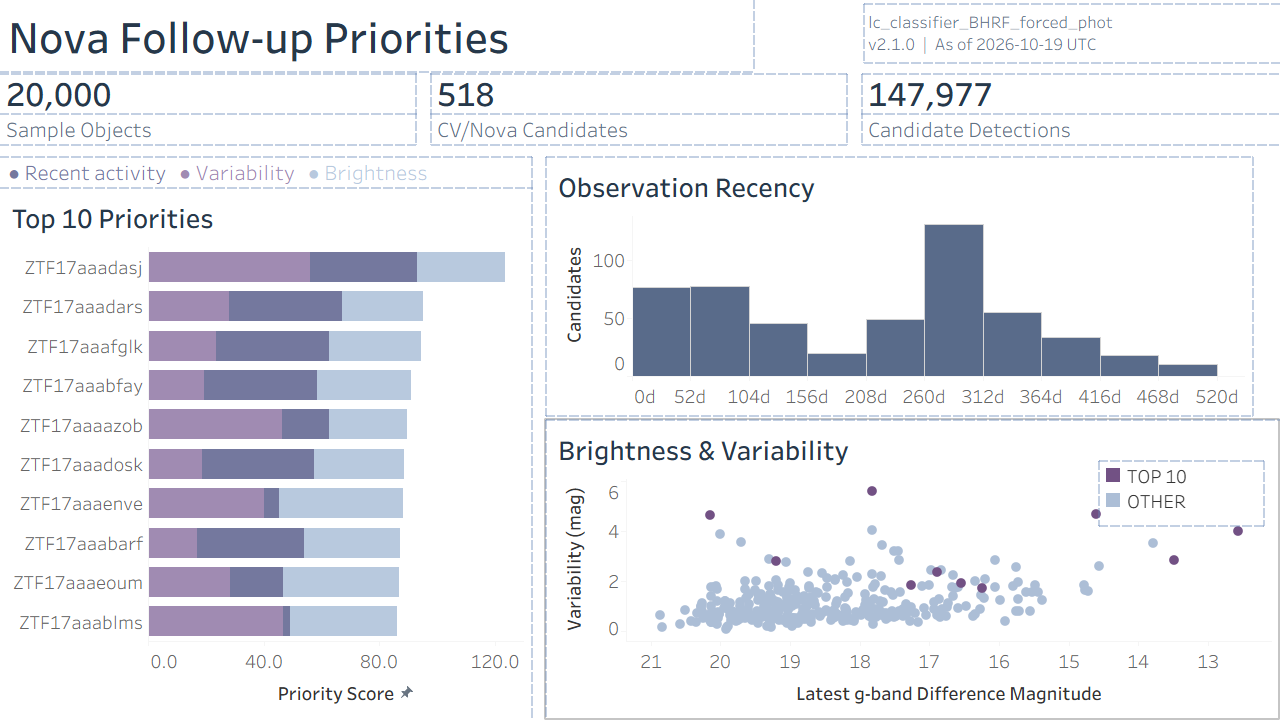
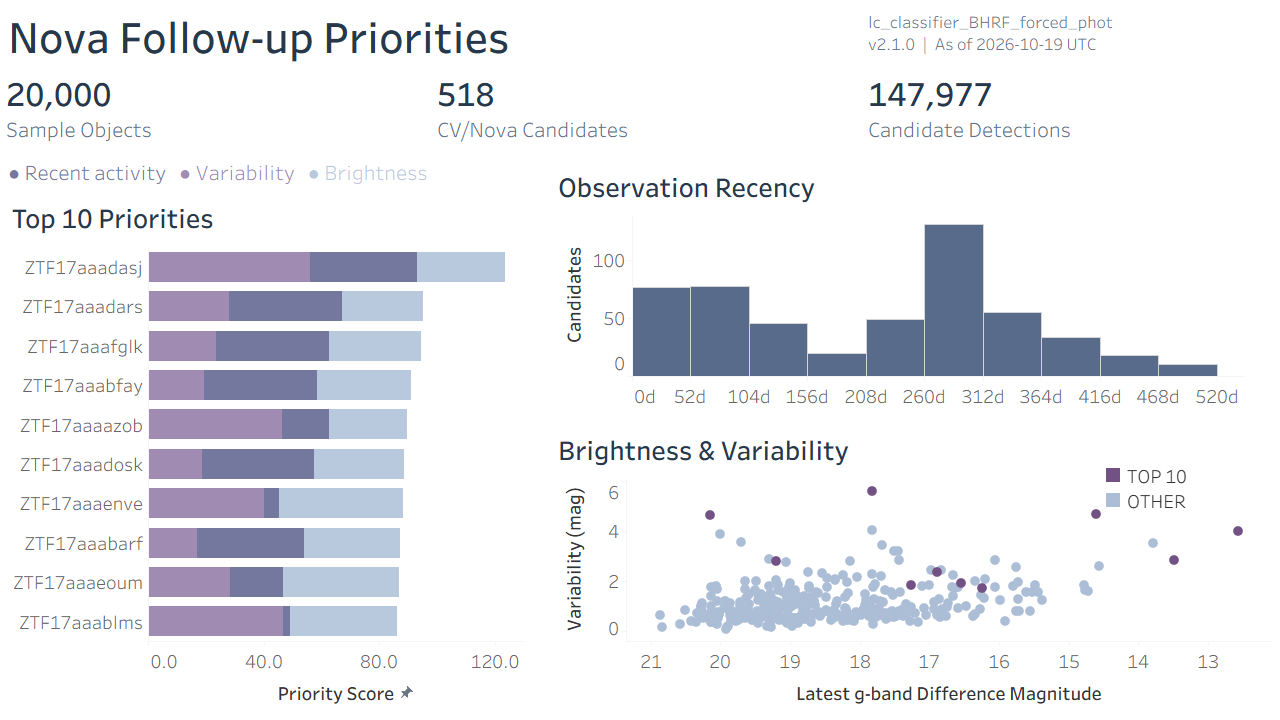
Update dashboard image and README preview

diff --git a/README.md b/README.md
@@ -2,7 +2,7 @@
 
 An astronomy data analytics portfolio project using Python, PostgreSQL, and Tableau to explore CV/Nova candidates and rank 10 targets for follow-up consideration.
 
-![Nova Follow-up Priorities dashboard](CV_Nova_final.png)
+![Nova Follow-up Priorities dashboard](CV_Nova_final.png?v=36d81310)
 
 ## Data Source
 
